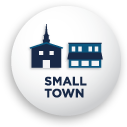
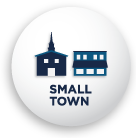
New ad-chooser interface.

Changed region(s): [[0.2126, 0.189, 0.8268, 0.5669], [0.3307, 0.5906, 0.685, 0.7795]]

diff --git a/style.css b/style.css
@@ -304,6 +304,7 @@ img.crest.gone
   width: 800px;
   height: 450px;
   text-align: center;
+  overflow: hidden;
   -webkit-box-shadow: 5px 0 10px #333;
      -moz-box-shadow: 5px 0 10px #333;
           box-shadow: 5px 0 10px #333;
@@ -489,12 +490,13 @@ img.crest.gone
 
 #ad_chooser
 {
+  background: url(img/slide_background2.jpg);
   z-index: 4;
 }
 
 #ad_chooser h2
 {
-  margin-bottom: .6em;
+  margin-bottom: .25em;
 }
 
 #ad_chooser ul
@@ -503,11 +505,6 @@ img.crest.gone
   margin: 0 auto;
   padding: 0;
   position: relative;
-/*
-  width: 540px;
-*/
-  width: 500px;
-  height: 300px;
 }
 
 #ad_chooser li,
@@ -522,11 +519,10 @@ img.crest.gone
 #ad_chooser .ad_choice
 {
   background-repeat: no-repeat;
-  background-position: 60px top;
   cursor: pointer !important;
   display: block;
-  width: 250px;
-  height: 127px;
+  width: 50%;
+  height: 138px;
   opacity: .85;
   text-indent: -9999px;
   -webkit-transition: all .25s ease-in-out;
@@ -572,22 +568,14 @@ img.crest.gone
 }
 
 #ad_chooser .ad_choice_category.left h3   { left: 0; }
-/*
-#ad_chooser .ad_choice_category.middle h3 { left: 35%; }
-*/
-#ad_chooser .ad_choice_category.middle h3 { left: 50%; }
-#ad_chooser .ad_choice_category.right h3  { left: 70%; }
+#ad_chooser .ad_choice_category.right h3  { left: 50%; }
 
-#ad_chooser .ad_choice_category ul
+#ad_chooser .ad_choice_category div
 {
   position: absolute;
-  top: 115px;
-/*
-  left: 50%;
-  margin: 0 0 0 -150px;
-*/
-  opacity: 0;
-  width: 300px;
+  top: 150px;
+  width: 800px;
+  height: 200px;
   z-index: 1;
   -webkit-transition: all .15s ease-in-out;
   -moz-transition: all .15s ease-in-out;
@@ -595,21 +583,79 @@ img.crest.gone
   transition: all .15s ease-in-out;
 }
 
-#ad_chooser .ad_choice_category.left ul
+#ad_chooser .ad_choice_category div h4,
+#ad_chooser .ad_choice_category div p
 {
-  left: -23px;
+  color: #fff;
+  font-family: proxima-nova;
+  text-align: left;
+  width: 375px;
 }
 
-#ad_chooser .ad_choice_category.middle ul
+#ad_chooser .ad_choice_category div h4
 {
-  left: 225px;
+  font-size: 22px;
+  font-weight: 900;
+  margin: 18px 0 0;
+  text-transform: none;
 }
 
-#ad_chooser .ad_choice_category.chosen ul
+#ad_chooser .ad_choice_category div p
 {
-  top: 135px;
-  opacity: 1;
-  z-index: 2;
+  font-size: 16px;
+  line-height: 1.2;
+  top: 30px;
+}
+
+#ad_chooser .ad_choice_category div ul
+{
+  margin-top: 3px;
+}
+
+#ad_chooser #ad_choice-bio div
+{
+  background-image: url(img/choice-bio_banner.png);
+  left: -800px;
+}
+
+#ad_chooser #ad_choice-bio div h4,
+#ad_chooser #ad_choice-bio div p
+{
+  position: absolute;
+  left: 310px;
+}
+
+#ad_chooser #ad_choice-bio.chosen div
+{
+  left: 0;
+}
+
+#ad_chooser #ad_choice-attack div
+{
+  background-image: url(img/choice-attack_banner.png);
+  right: -800px;
+}
+
+#ad_chooser #ad_choice-attack div h4,
+#ad_chooser #ad_choice-attack div p
+{
+  position: absolute;
+  left: 120px;
+}
+
+#ad_chooser #ad_choice-attack div p
+{
+  top: 50px;
+}
+
+#ad_chooser #ad_choice-attack div ul
+{
+  margin-left: 485px;
+}
+
+#ad_chooser #ad_choice-attack.chosen div
+{
+  right: 0;
 }
 
 #ad_chooser .ad_choice_category li
@@ -621,15 +667,12 @@ img.crest.gone
   padding: 0;
 }
 
-#ad_choice-biographical h3 { background-image: url(img/choice-biographical.png); }
+#ad_choice-bio h3          { background: url(img/choice-bio.png) 215px top no-repeat; }
 #ad_choice-smalltown       { background-image: url(img/choice-smalltown.png); }
-#ad_choice-metro           { background-image: url(img/choice-metro.png); }
-#ad_choice-attack h3       { background-image: url(img/choice-attack.png); }
-#ad_choice-unfitforoffice    { background-image: url(img/choice-unfitforoffice.png); }
-#ad_choice-backfire        { background-image: url(img/choice-backfire.png); }
-/*
-#ad_choice-emotional h3    { background-image: url(img/choice-emotional.png); }
-*/
+#ad_choice-metro           { background-image: url(img/choice-cityorsuburb.png); }
+#ad_choice-attack h3       { background: url(img/choice-attack.png) 40px top no-repeat; }
+#ad_choice-unfitforoffice  { background-image: url(img/choice-credentials.png); }
+#ad_choice-backfire        { background-image: url(img/choice-character.png); }
 
 #video_loading
 {
@@ -714,8 +757,8 @@ img.crest.gone
   left: 50px;
 }
 
-#controls #playPause   { background: url(img/buttons_sprite.png) 0 -48px}
-#controls #mute  { background: url(img/buttons_sprite.png) 0 -144px
+#controls #playPause   { background: url(img/buttons.png) 0 -48px}
+#controls #mute  { background: url(img/buttons.png) 0 -144px
 }
 
 #controls #playPause.playing {

diff --git a/index.php b/index.php
@@ -74,19 +74,27 @@
   		    <div class="slide" id="ad_chooser">
   		      <h2>Choose an Ad!</h2>
             <ul>
-              <li class="ad_choice_category left" id="ad_choice-biographical">
+              <li class="ad_choice_category left" id="ad_choice-bio">
                 <h3>Biographical</h3>
-                <ul>
-                  <li class="ad_choice" id="ad_choice-smalltown">Small-town America</li>
-                  <li class="ad_choice" id="ad_choice-metro">Metro America</li>
-                </ul>
+                <div>
+                  <h4>Where do you hail from?</h4>
+                  <p>A biographical ad captures a candidate&rsquo;s life story. But depending on a candidate&rsquo;s origins, the ad could be a tale of small-town values or a record of experience.</p>
+                  <ul>
+                    <li class="ad_choice" id="ad_choice-smalltown">Small-town America</li>
+                    <li class="ad_choice" id="ad_choice-metro">Metro America</li>
+                  </ul>
+                </div>
               </li>
-              <li class="ad_choice_category middle" id="ad_choice-attack">
+              <li class="ad_choice_category right" id="ad_choice-attack">
                 <h3>Attack</h3>
-                <ul>
-                  <li class="ad_choice" id="ad_choice-unfitforoffice">Fit for Office?</li>
-                  <li class="ad_choice" id="ad_choice-backfire">Backfire</li>
-                </ul>
+                <div>
+                  <h4>Do you want to attack your character or credentials?</h4>
+                  <p>Attacks ads instill doubt about a political opponent. How will you show that this candidate is unfit for office, or even dangerous?</p>
+                  <ul>
+                    <li class="ad_choice" id="ad_choice-unfitforoffice">Fit for Office?</li>
+                    <li class="ad_choice" id="ad_choice-backfire">Backfire</li>
+                  </ul>
+                </div>
               </li>
             </ul>
   		    </div>
